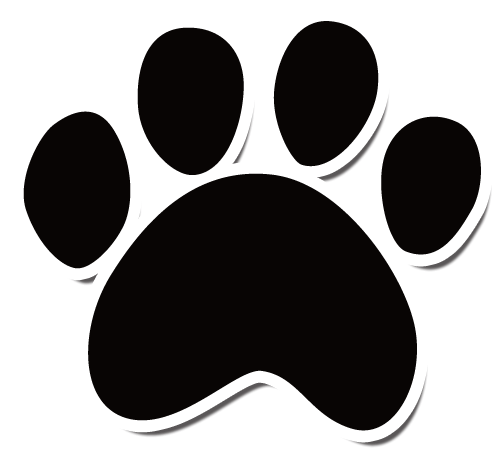
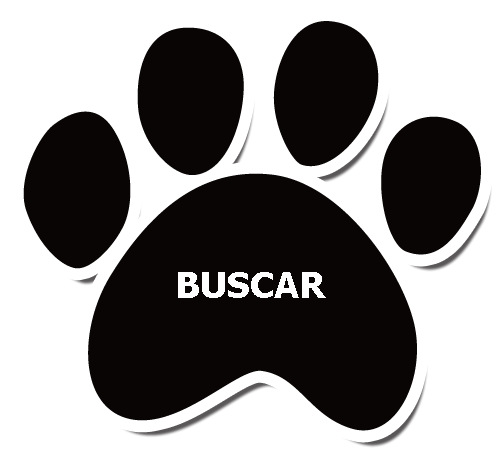
modificacion de imagenes

Changed region(s): [[0.33, 0.5733, 0.66, 0.6638]]

diff --git a/AplicacionFinal/Sitio sin nombre 2/Bienvenidos.html b/AplicacionFinal/Sitio sin nombre 2/Bienvenidos.html
@@ -32,14 +32,14 @@ Do the following if you're using your customized build of modernizr (http://www.
   <div class="fluid div2">
     <table width="200" border="0" align="center">
       <tr>
-        <th height="152" nowrap scope="row"><p>Buscar</p>
-        <p><img src="./imagenes/gf.png"  alt="" width="125"/></p></th>
+        <th height="152" nowrap scope="row">
+        <p><img src="./imagenes/gf.png"  alt="" width="125" id="buscar"/></p></th>
         <td nowrap>&nbsp;</td>
       </tr>
       <tr>
         <th nowrap scope="row">&nbsp;</th>
-        <th nowrap><p>publicar</p>
-        <p><img src="./imagenes/huella3.png"  alt="" width="125"/></p></th>
+        <th nowrap>
+        <p><img src="./imagenes/huella3.png"  alt="" width="125" id="publicar"/></p></th>
       </tr>
     </table>
   </div>
